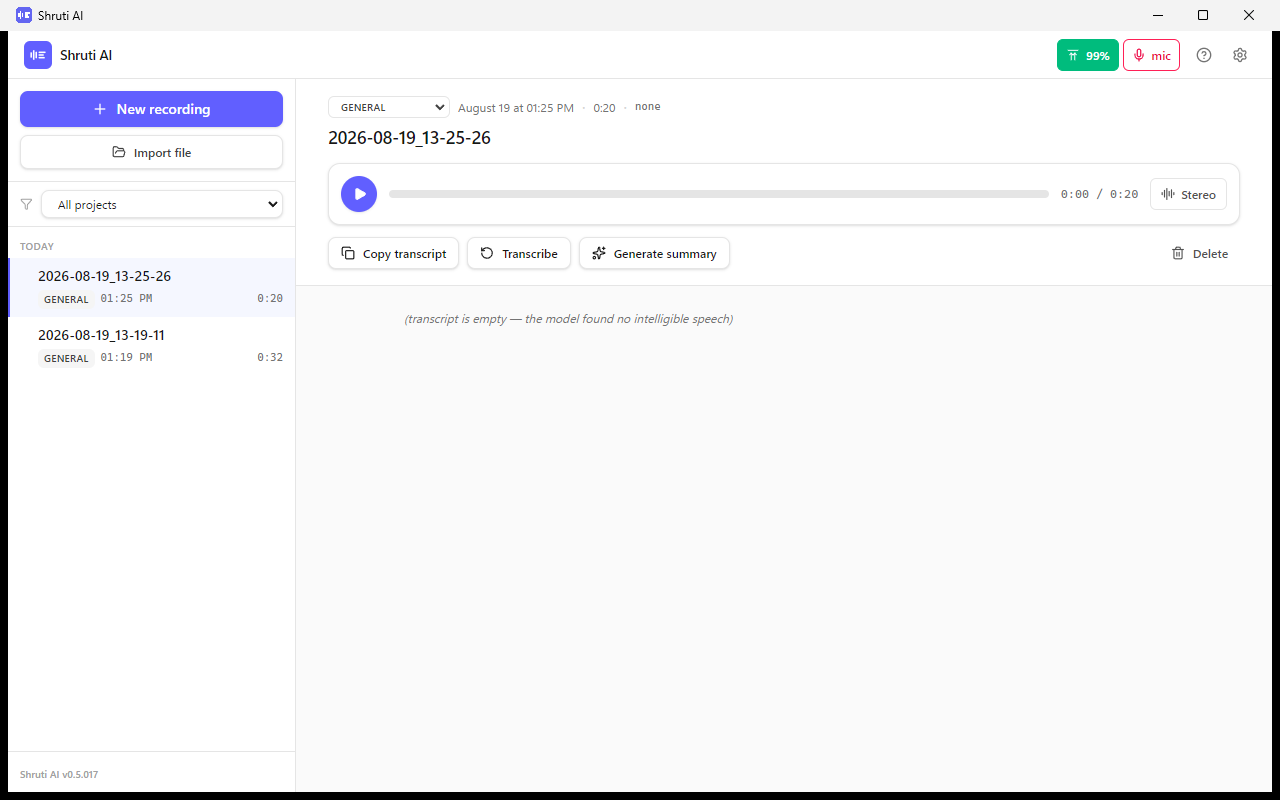
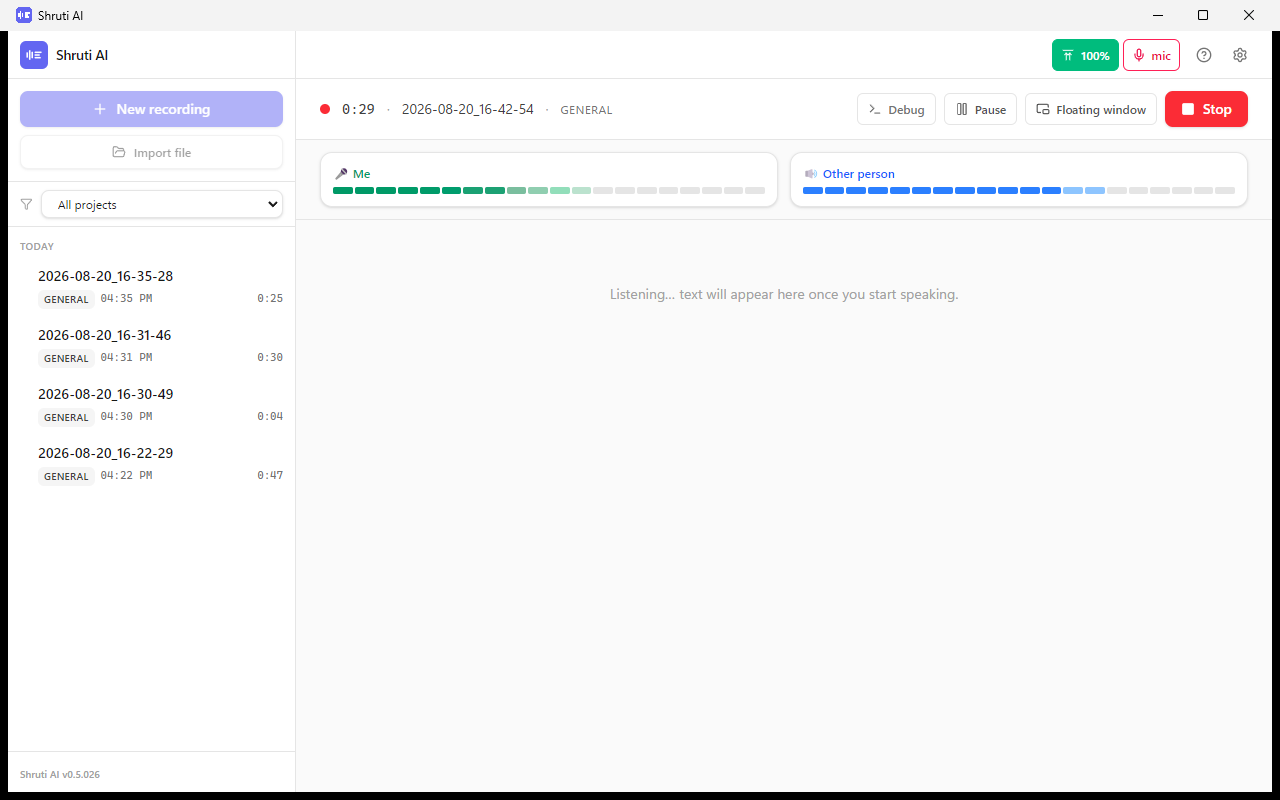
Галерею перезнято на 0.5.026
Кадри були з 0.5.017 — там ще старий макет: логотип у шапці, суцільні шкали,
мікрофона в шапці немає. Сторінка показувала не те, що людина завантажує.

Знято в типовому вигляді (світла тема, індиго, англійський інтерфейс), а не
в налаштуваннях власника.

diff --git a/README.uk.md b/README.uk.md
@@ -44,8 +44,8 @@
 
 <img src="docs/01-main-window.png" alt="Головне вікно" width="100%">
 
-Головне вікно. Кнопки мікрофона в шапці — утримання рівня і вимкнення —
-доступні **завжди**, не лише під час запису.
+Головне вікно. Мікрофон живе просто в шапці: вибір пристрою, живий рівень,
+вимкнення й утримання гучності — **завжди**, не лише під час запису.
 
 <img src="docs/05-new-recording.png" alt="Підготовка запису" width="100%">
 

diff --git a/README.md b/README.md
@@ -45,8 +45,8 @@ is no server of ours involved.
 
 <img src="docs/01-main-window.png" alt="Main window" width="100%">
 
-The main window. The microphone buttons in the header — level keeping and mute —
-are available **at any time**, not only while recording.
+The main window. The microphone lives in the header: pick the device, watch the
+level, mute it or hold the gain — **at any time**, not only while recording.
 
 <img src="docs/05-new-recording.png" alt="New recording" width="100%">
 
